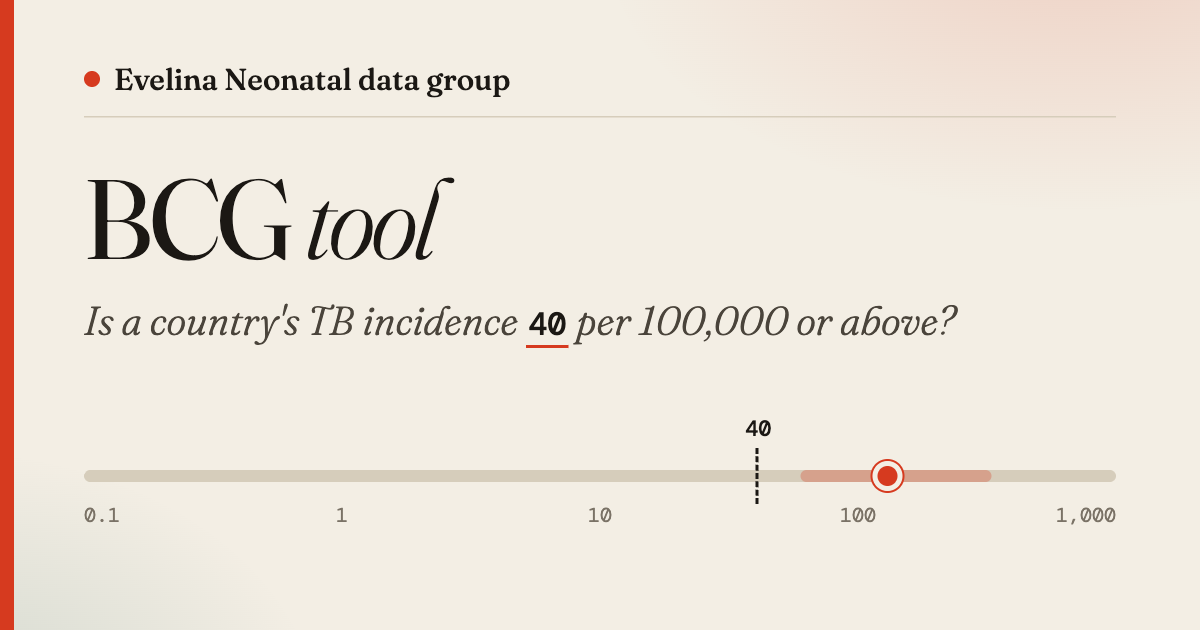
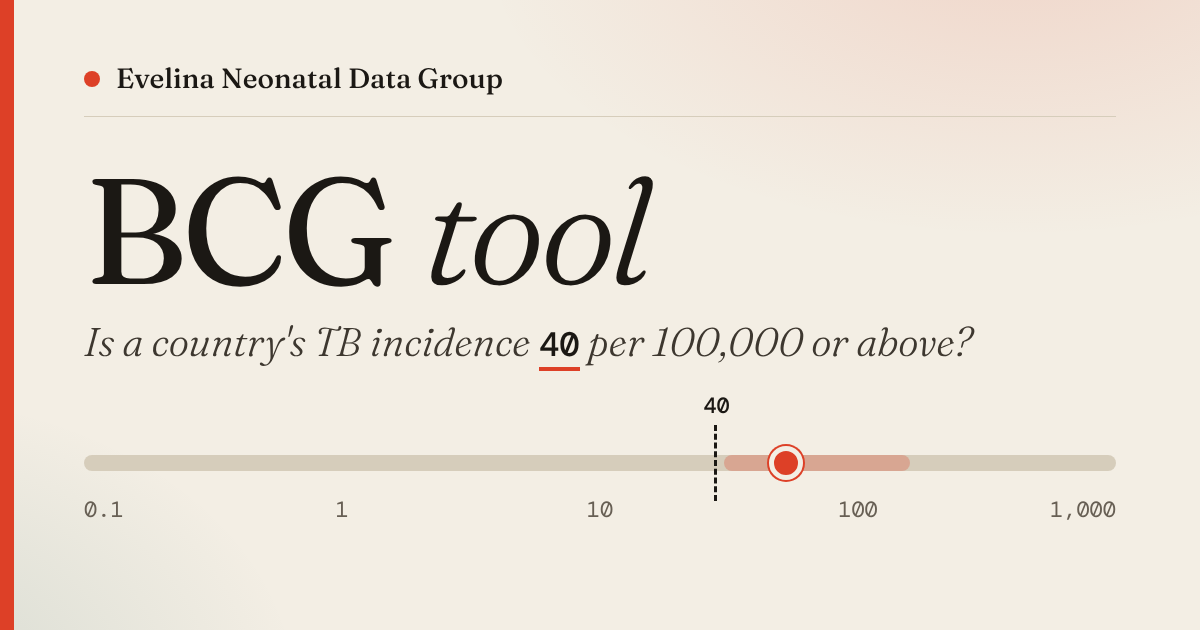
Align with Evelina Neonatal Data Group branding (#1)
- Name the group consistently as "Evelina Neonatal Data Group" in the title,
  meta tags, header, footer and social image, and link to the group landing page
- Palette follows the shared tokens: dictionary Red Orange for fills and a
  darker --hot-ink for text, darker muted text for WCAG AA contrast
- Regenerate og-image.png with the corrected name

Claude-Session: https://claude.ai/code/session_01VCRZ1X7ZCvtenKqNJ8ge2P

diff --git a/index.html b/index.html
@@ -3,18 +3,18 @@
 <head>
 <meta charset="utf-8">
 <meta name="viewport" content="width=device-width, initial-scale=1">
-<title>Evelina Neonatal data group BCG tool</title>
-<meta name="description" content="Evelina Neonatal data group tool: check whether a country's estimated TB incidence is 40 per 100,000 or above, the UK Green Book threshold for BCG vaccination. Based on WHO estimates.">
+<title>BCG tool | Evelina Neonatal Data Group</title>
+<meta name="description" content="Evelina Neonatal Data Group tool: check whether a country's estimated TB incidence is 40 per 100,000 or above, the UK Green Book threshold for BCG vaccination. Based on WHO estimates.">
 <meta property="og:type" content="website">
 <meta property="og:url" content="https://drhammadkhan.github.io/tb-rate-check/">
 <meta property="og:image" content="https://drhammadkhan.github.io/tb-rate-check/og-image.png">
 <meta property="og:image:width" content="1200">
 <meta property="og:image:height" content="630">
-<meta property="og:image:alt" content="Evelina Neonatal data group BCG tool: is a country's TB incidence 40 per 100,000 or above?">
+<meta property="og:image:alt" content="Evelina Neonatal Data Group BCG tool: is a country's TB incidence 40 per 100,000 or above?">
 <meta name="twitter:card" content="summary_large_image">
 <meta name="twitter:image" content="https://drhammadkhan.github.io/tb-rate-check/og-image.png">
-<meta property="og:title" content="Evelina Neonatal data group BCG tool">
-<meta property="og:description" content="Evelina Neonatal data group tool: check whether a country's estimated TB incidence is 40 per 100,000 or above, the UK Green Book threshold for BCG vaccination. Based on WHO estimates.">
+<meta property="og:title" content="BCG tool | Evelina Neonatal Data Group">
+<meta property="og:description" content="Evelina Neonatal Data Group tool: check whether a country's estimated TB incidence is 40 per 100,000 or above, the UK Green Book threshold for BCG vaccination. Based on WHO estimates.">
 <link rel="icon" href="favicon.svg" type="image/svg+xml">
 <link rel="icon" href="favicon-32.png" type="image/png" sizes="32x32">
 <link rel="apple-touch-icon" href="apple-touch-icon.png">
@@ -23,13 +23,15 @@
 <link href="https://fonts.googleapis.com/css2?family=DM+Mono:wght@400;500&family=Fraunces:ital,opsz,wght@0,9..144,300..800;1,9..144,300..800&display=swap" rel="stylesheet">
 <style>
 :root{
-  --paper:#f3eee4; --paper2:#ebe4d6; --ink:#1b1814; --mute:#7a7266; --line:#d6cdbb;
-  --hot:#d63a1f; --hotbg:#f9ddd4; --cool:#1d5e57; --coolbg:#d9e8e2;
+  --paper:#f3eee4; --paper2:#ebe4d6; --ink:#1b1814; --mute:#675f54; --line:#d6cdbb;
+  --hot:#dd4027; --hot-ink:#b3301a; --hotbg:#f9ddd4; --cool:#1d5e57; --coolbg:#d9e8e2;
+  --amber:#c5a56e; --amber-ink:#7a5a12; --amberbg:#f3e7cb; --field:#fbf8f1;
   --serif:"Fraunces",Georgia,"Times New Roman",serif; --mono:"DM Mono",ui-monospace,Menlo,monospace;
 }
 @media(prefers-color-scheme:dark){:root{
   --paper:#15130f; --paper2:#1d1a15; --ink:#f1ebdd; --mute:#9b9384; --line:#363126;
-  --hot:#ff7a5c; --hotbg:#3a1c14; --cool:#6fd0c2; --coolbg:#13302c;
+  --hot:#ff7a5c; --hot-ink:#ff7a5c; --hotbg:#3a1c14; --cool:#6fd0c2; --coolbg:#13302c;
+  --amber:#e0b866; --amber-ink:#e0b866; --amberbg:#33290f; --field:#110f0c;
 }}
 *{box-sizing:border-box}
 html{-webkit-text-size-adjust:100%}
@@ -47,7 +49,8 @@ body::before{ /* paper grain */
 }
 @media(prefers-color-scheme:dark){body::before{mix-blend-mode:screen;opacity:.12}}
 main{position:relative;max-width:640px;margin:0 auto;padding:44px 22px 40px}
-.brand{font:500 1.05rem/1.2 var(--serif);letter-spacing:.01em;margin:0 0 26px;padding-bottom:12px;border-bottom:1px solid var(--line);display:flex;align-items:center;gap:10px}
+.brand{font:500 1.05rem/1.2 var(--serif);letter-spacing:.01em;margin:0 0 26px;padding-bottom:12px;border-bottom:1px solid var(--line);display:flex;align-items:center;gap:10px;color:var(--ink);text-decoration:none}
+a.brand:hover span{text-decoration:underline;text-underline-offset:4px}
 .brand::before{content:"";width:9px;height:9px;border-radius:50%;background:var(--hot);flex:none}
 .kicker{font:500 .72rem/1 var(--mono);letter-spacing:.14em;text-transform:uppercase;color:var(--mute);display:flex;align-items:center;gap:10px}
 .kicker::before{content:"";width:28px;height:1px;background:var(--mute)}
@@ -77,11 +80,11 @@ h1 b{font-weight:700;font-family:var(--mono);font-size:.8em;letter-spacing:-.04e
   animation:rise .5s cubic-bezier(.2,.8,.2,1) both;
 }
 .card::after{content:"";position:absolute;left:0;top:0;bottom:0;width:5px;background:var(--accent)}
-.card.yes{--accent:var(--hot)} .card.no{--accent:var(--cool)}
+.card.yes{--accent:var(--hot);--accent-ink:var(--hot-ink)} .card.no{--accent:var(--cool);--accent-ink:var(--cool)}
 .country{font:500 .75rem var(--mono);letter-spacing:.12em;text-transform:uppercase;color:var(--mute);margin:0 0 4px;animation:rise .5s .05s both}
 .stamp{
   position:absolute;top:18px;right:18px;font:500 .72rem var(--mono);letter-spacing:.14em;text-transform:uppercase;
-  color:var(--accent);border:2px solid var(--accent);border-radius:3px;padding:6px 10px;transform:rotate(3deg);
+  color:var(--accent-ink);border:2px solid var(--accent);border-radius:3px;padding:6px 10px;transform:rotate(3deg);
   animation:stamp .45s .25s cubic-bezier(.3,1.6,.5,1) both;
 }
 .big{display:flex;align-items:baseline;gap:10px;flex-wrap:wrap;margin:6px 0 2px;animation:rise .5s .1s both}
@@ -100,7 +103,7 @@ h1 b{font-weight:700;font-family:var(--mono);font-size:.8em;letter-spacing:-.04e
 .ticks span:first-child{transform:none}.ticks span:last-child{transform:translateX(-100%)}
 .meta{margin-top:18px;padding-top:14px;border-top:1px dashed var(--line);display:flex;flex-wrap:wrap;gap:6px 22px;font:400 .78rem/1.4 var(--mono);color:var(--mute);animation:rise .5s .3s both}
 .meta b{color:var(--ink);font-weight:500}
-.card.none{--accent:var(--mute)}.meta2{margin:8px 0 0;color:var(--mute)}
+.card.none{--accent:var(--mute);--accent-ink:var(--mute)}.meta2{margin:8px 0 0;color:var(--mute)}
 .ovf{position:absolute;top:50%;transform:translateY(-50%);font-size:.6rem;color:var(--accent)}.ovf.l{left:-14px}.ovf.r{right:-14px}
 .dot.hollow{background:var(--paper2)}
 .warn{margin-top:14px;padding:10px 12px;background:var(--hotbg);border-left:3px solid var(--hot);font:400 .85rem/1.45 var(--serif);animation:rise .5s .35s both}
@@ -136,8 +139,8 @@ footer a{color:var(--ink);text-underline-offset:3px}
 </head>
 <body>
 <main>
-  <div class="brand">Evelina Neonatal data group BCG tool</div>
-  <div class="kicker">WHO tuberculosis estimates <span id="yr"></span></div>
+  <a class="brand" href="https://drhammadkhan.github.io/evelina-neonatal-data-group/"><span>Evelina Neonatal Data Group</span></a>
+  <div class="kicker">BCG tool &middot; WHO estimates <span id="yr"></span></div>
   <h1>Is TB <b>40</b> per 100,000 or above in&hellip;</h1>
   <div class="field">
     <input id="q" placeholder="type a country" autocomplete="off" autocapitalize="words" enterkeyhint="search" spellcheck="false" aria-label="Country">
@@ -156,7 +159,7 @@ footer a{color:var(--ink);text-underline-offset:3px}
     This site checks WHO&rsquo;s download weekly; WHO publishes new estimates annually and may revise earlier years.
     Sources: <a href="https://www.who.int/teams/global-tuberculosis-programme/data">WHO TB data</a> &middot; <a href="https://worldhealthorg.shinyapps.io/tb_profiles/">WHO TB profiles</a>.</p>
     </details>
-    <p class="credit">Created by Dr Hammad Khan with the help of Dr Juno Stahl and Dr Katie Evans</p>
+    <p class="credit">A tool from the <a href="https://drhammadkhan.github.io/evelina-neonatal-data-group/">Evelina Neonatal Data Group</a>.<br>Created by Dr Hammad Khan with the help of Dr Juno Stahl and Dr Katie Evans</p>
   </footer>
 </main>
 <script>

diff --git a/README.md b/README.md
@@ -1,3 +1,5 @@
-# TB Rate Check
+# TB Rate Check (BCG tool)
+
+A tool from the [Evelina Neonatal Data Group](https://drhammadkhan.github.io/evelina-neonatal-data-group/).
 
 Static page: is a country's estimated TB incidence above 40 per 100,000? Data from WHO TB estimates, refreshed weekly by GitHub Actions.
